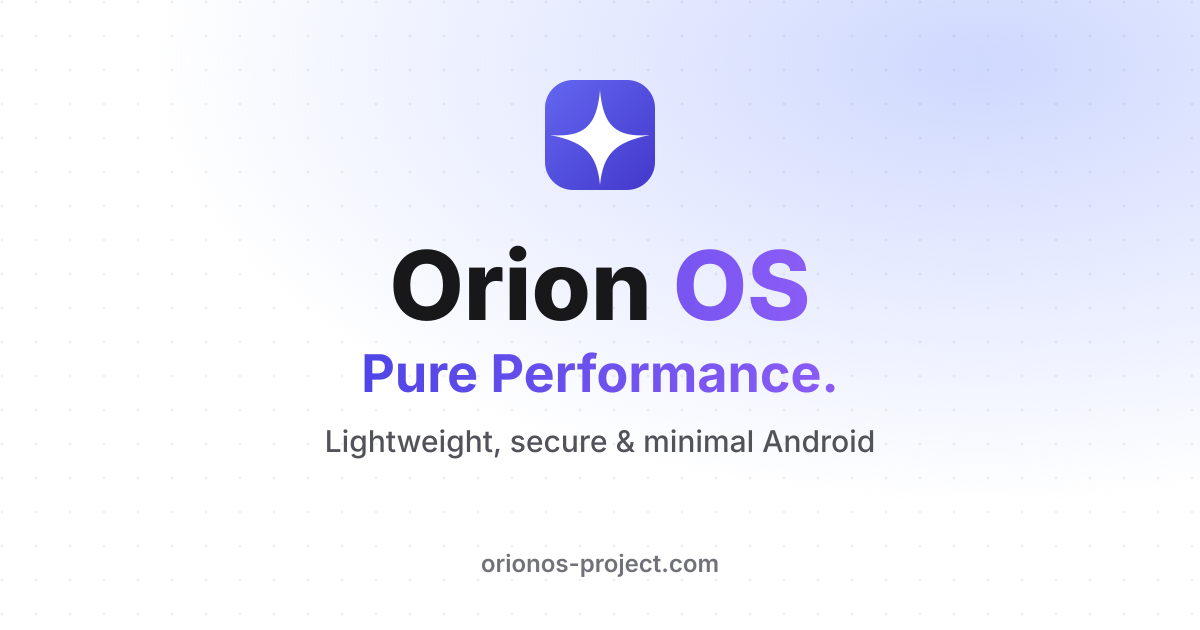
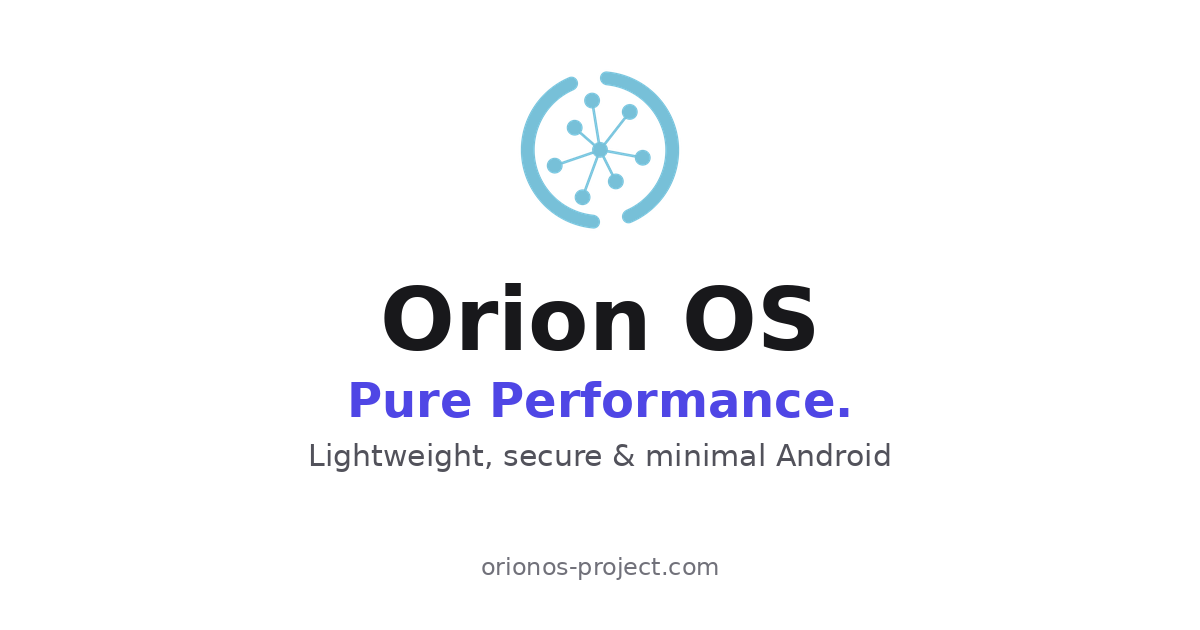
Change brand color

Changed region(s): [[0.2467, 0.0, 1.0, 0.754], [0.4008, 0.8746, 0.6167, 0.9349]]

diff --git a/src/styles/global.css b/src/styles/global.css
@@ -2,15 +2,18 @@
 
 @theme {
   --font-sans: "Inter Variable", ui-sans-serif, system-ui, -apple-system, "Segoe UI", Roboto, Helvetica, Arial, sans-serif;
-  --color-brand-50: #eef2ff;
-  --color-brand-100: #e0e7ff;
-  --color-brand-200: #c7d2fe;
-  --color-brand-400: #818cf8;
-  --color-brand-500: #6366f1;
-  --color-brand-600: #4f46e5;
-  --color-brand-700: #4338ca;
-  --color-brand-900: #312e81;
-  --color-brand-950: #1e1b4b;
+  --color-orion: oklch(60.9% 0.126 221.723);
+  --color-brand-50: oklch(0.977 0.013 236.62);
+  --color-brand-100: oklch(0.951 0.026 236.62);
+  --color-brand-200: oklch(0.901 0.058 230.902);
+  --color-brand-300: oklch(0.828 0.111 230.318);
+  --color-brand-400: oklch(0.746 0.16 232.661);
+  --color-brand-500: oklch(0.685 0.169 237.323);
+  --color-brand-600: oklch(0.609 0.126 221.723);
+  --color-brand-700: oklch(0.5 0.134 242.749);
+  --color-brand-800: oklch(0.443 0.11 240.79);
+  --color-brand-900: oklch(0.391 0.09 240.876);
+  --color-brand-950: oklch(0.293 0.066 243.157);
 }
 
 @layer base {
@@ -49,8 +52,8 @@
 /* Decorative square grid (kotak-kotak) */
 .bg-grid {
   background-image:
-    linear-gradient(to right, rgb(79 70 229 / 0.09) 1px, transparent 1px),
-    linear-gradient(to bottom, rgb(79 70 229 / 0.09) 1px, transparent 1px);
+    linear-gradient(to right, color-mix(in srgb, var(--color-brand-600) 12%, transparent) 1px, transparent 1px),
+    linear-gradient(to bottom, color-mix(in srgb, var(--color-brand-600) 12%, transparent) 1px, transparent 1px);
   background-size: 44px 44px;
 }
 .bg-grid-fade {
@@ -171,7 +174,7 @@
   background: var(--color-brand-50);
   border-radius: 0 0.75rem 0.75rem 0;
   padding: 1rem 1.25rem;
-  color: #3730a3;
+  color: var(--color-brand-800);
   font-weight: 450;
 }
 .prose-orion blockquote p { margin-top: 0.35rem; }
@@ -182,7 +185,7 @@
   padding: 0.1rem 0.4rem;
   font-size: 0.9em;
   font-family: ui-monospace, SFMono-Regular, Menlo, monospace;
-  color: #312e81;
+  color: var(--color-brand-900);
 }
 .prose-orion hr {
   border: none;

diff --git a/src/data/developers.ts b/src/data/developers.ts
@@ -141,12 +141,12 @@ export function getDeveloper(name: string): Developer | undefined {
 }
 
 const AVATAR_PALETTE = [
-  '#4f46e5',
+  'oklch(60.9% 0.126 221.723)',
   '#0ea5e9',
   '#0d9488',
   '#ca8a04',
   '#db2777',
-  '#7c3aed',
+  '#0284c7',
   '#dc2626',
   '#2563eb',
 ];
